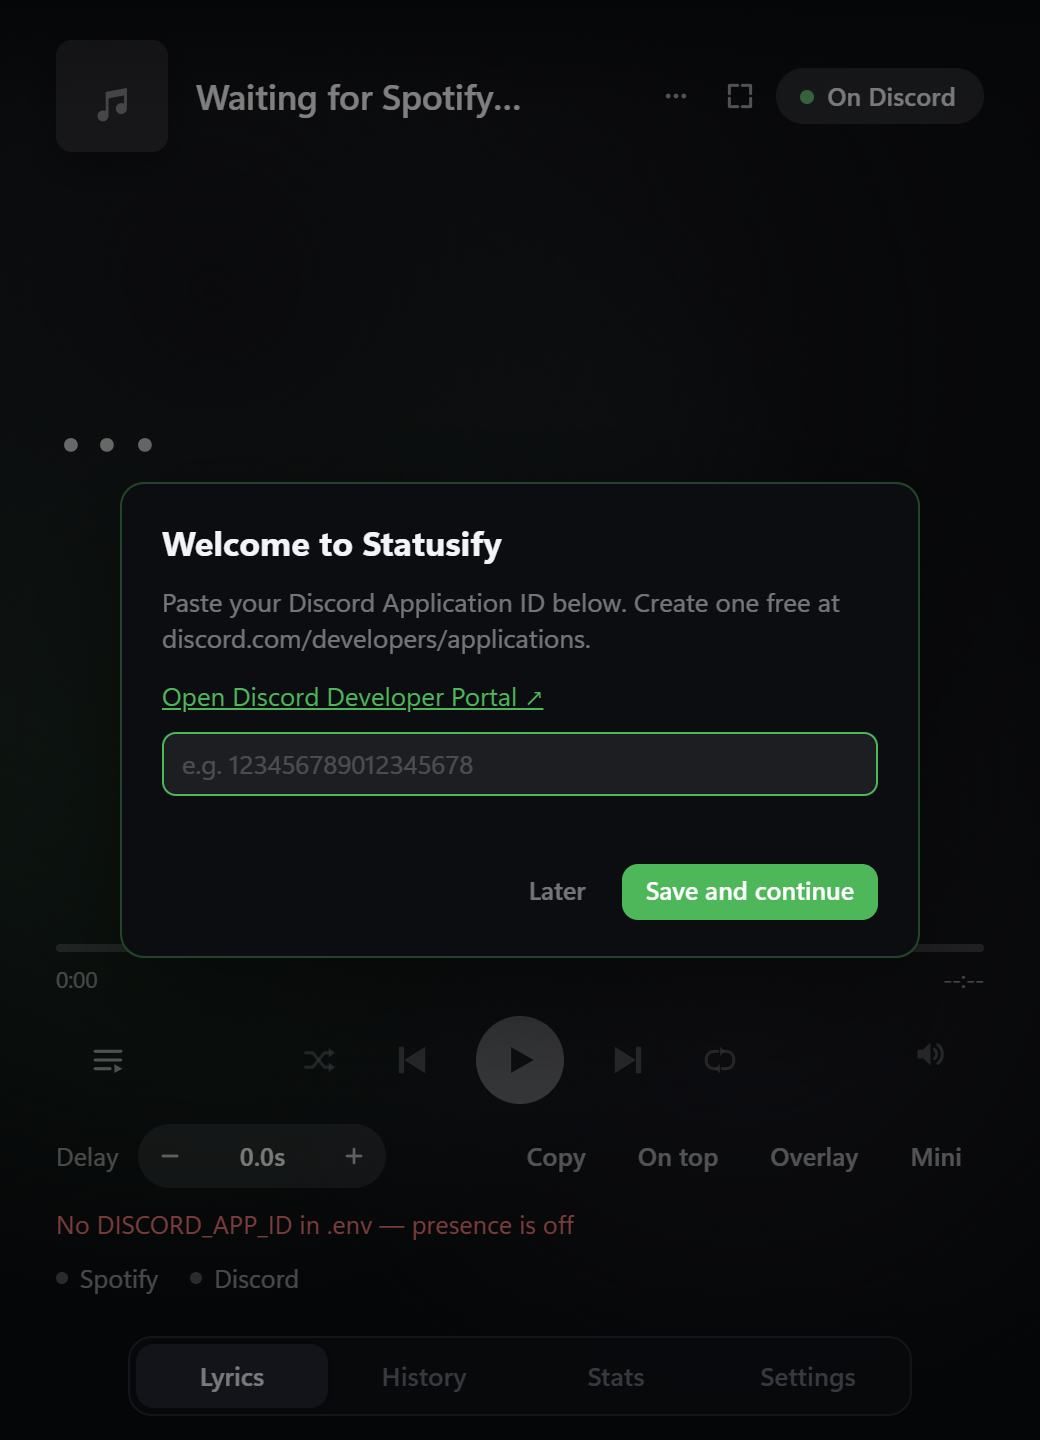
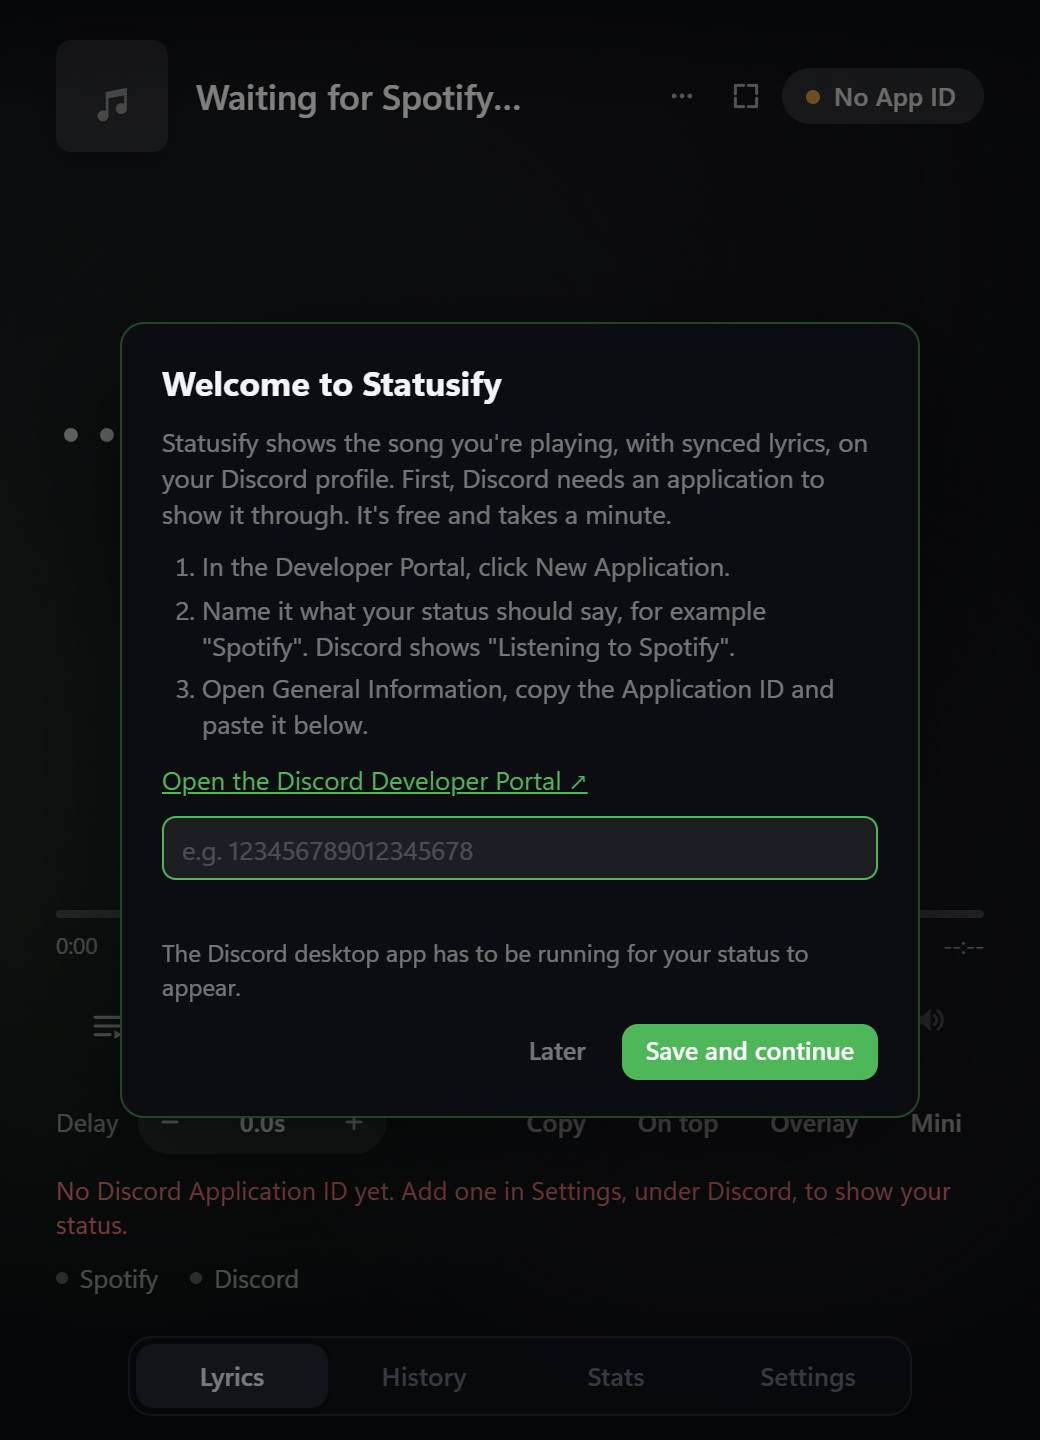
README and release notes: say only what the code and the app do
- Release body: nothing is migrated automatically (the v2 uninstaller deletes statusify.cfg and .env), so say to copy four files first; the Python app is retired, not gone, and stays on python-legacy; drop the logo paragraph (v2 never had a placeholder).

- Pause: about 1.6 s measured. Turning the status off and clearing for a blacklisted song wait for a free update as well (presence.rs Owed::Off, Owed::Blacklist): up to about 20 s.

- History day headers show the session count and the day total; the heatmap is 4 to 53 weeks wide; an update found opens its dialog once per version; the Spicetify setup appends its folder to the user PATH and downloads the latest release unpinned and unchecksummed; the updater runs /S /R /UPDATE.

- Migrating: uninstall v2 only after copying the data, and the installer's desktop-shortcut box is ticked by default and replaces an existing Statusify shortcut.

- First run: docs/first-run.png is a capture of the release build (the pill reads No App ID and sits beside the title); the text and alt texts next to it match.

- Security notes: the bridge listens on 127.0.0.1 only but accepts any local client; hardening is planned.

diff --git a/README.md b/README.md
@@ -25,22 +25,20 @@ Version 3 is a rewrite in Rust and [Tauri](https://tauri.app). It replaces the P
 
 ## 🆕 What's New in v3.0.0
 
-**Rewritten in Rust and Tauri.** The Python app is gone. The window now runs on the system's WebView2 with GPU-composited animation instead of a canvas redrawn in software, so the interface is much faster and the whole app is roughly 10-12 MB.
-
-**Your real logo everywhere.** The Statusify icon now shows on the taskbar, in the title bar and in the tray, not a placeholder.
+**Rewritten in Rust and Tauri.** The Python app is retired and stays on the [python-legacy branch](https://github.com/KurepaBoss/Statusify/tree/python-legacy). The window now runs on the system's WebView2 with GPU-composited animation instead of a canvas redrawn in software, so the interface is much faster and the whole app is roughly 10-12 MB.
 
 **A faster, steadier Spotify to Discord bridge.** The chain from Statusify hearing about a change to the update reaching Discord was timed on the development PC, with a stand-in for Spotify and one for Discord's pipe, so Discord's own delay is not in these numbers. They compare against the first build of version 3; the Python app was not measured. Median times unless noted:
 
 - **Changes in Statusify itself, nothing else needed.** The first status update after a song change arrives 0.45 s later when the lyrics were fetched ahead (it was 1.57 s) and 0.87 s later when they arrive 0.8 s after the change (it was 1.59 s). When the lyrics are not known or arrive late, the first update still takes about 1.6 s, as before. Resuming after a pause longer than 1.5 s puts the status back in 0.38 s (it was 1.57 s). Scrubbing the seek bar (10 seeks in 2.5 s) sends 2 updates instead of 5 and shows the right lyric 0.6 s after the last seek, where it took 15.7 s. After Discord's pipe closes for 0.3 s the status is back in 1.2 s (it was 6.6 s), and a program that holds a connection to Statusify's port without speaking no longer blocks Spotify's bridge.
 - **Discord's limit holds under abuse.** Discord accepts 5 updates per 20 s. Statusify now counts every one of them, clearing the status included, and keeps the count across Discord reconnects. In one-minute tests of mashing pause and resume (every 0.3 to 3 s), of a Discord that hangs up right after connecting and of a Spotify connection that drops every 0.3 to 6 s, it never sent more than 5 in any 20 s; in the pause and resume tests the status was also never blank while music played. A pause or a dropped connection shorter than 1.5 s now leaves your status alone instead of clearing it and putting it back.
-- **It costs something.** A pause now takes the status down after about 1.5 s instead of at once, because a quick pause and resume should not spend updates. On songs with a lyric line every 4 s or faster, which use up all of Discord's updates, it takes 5 to 8 s (about 15 s at worst) until a slot is free.
+- **It costs something.** A pause now takes the status down after about 1.6 s instead of at once, because a quick pause and resume should not spend updates. On songs with a lyric line every 4 s or faster, which is most songs with vocals and uses up all of Discord's updates, it takes 5 to 8 s (about 15 s at worst) until a slot is free. Turning the status off (`Ctrl+Alt+S`, or the Discord pill on the Lyrics page) and clearing it when a blacklisted song starts now wait for a free update as well. That costs nothing when a slot is free; if all five were just used, as on a fast song, the old status can stay up on Discord for up to about 20 s.
 - **These parts need the updated Spicetify bridge, `lyrics-bridge.js` 2.2.x.** Statusify offers it, and Settings, under Spotify lyrics, has Set up… to apply it; that restarts Spotify once. With it, a song change, pause or resume reaches Statusify in about 1 ms instead of about 250 ms (95 % of them within 10 ms instead of 460 ms). A song change with lyrics ready reaches Discord in 0.46 s instead of 1.85 s, counted from Spotify's own event. When Spotify's lyrics request hangs, it is given up after 5 s instead of about a minute. The old bridge keeps working but gets none of these three, and how the first two bullets behave alongside the old bridge was not measured.
 
 The measurements and how to repeat them are in `tests/bench` in the repository.
 
 **A real installer.** `Statusify-Setup.exe` installs for your user only, with no administrator prompt. Every release also lists a SHA-256 checksum for it.
 
-**Python version 2.x is kept.** It lives on the [python-legacy branch](https://github.com/KurepaBoss/Statusify/tree/python-legacy), and its releases and tags (v1.x and v2.x) stay on the [Releases page](https://github.com/KurepaBoss/Statusify/releases). Your history, settings and lyric cache carry over to version 3; see [Migrating from the Python version](https://github.com/KurepaBoss/Statusify#-migrating-from-the-python-version).
+**Python version 2.x is kept.** It lives on the [python-legacy branch](https://github.com/KurepaBoss/Statusify/tree/python-legacy), and its releases and tags (v1.x and v2.x) stay on the [Releases page](https://github.com/KurepaBoss/Statusify/releases). Your history, settings and lyric cache can come with you. Nothing is moved automatically: copy four files before you uninstall the old version (see [Migrating from the Python version](https://github.com/KurepaBoss/Statusify#-migrating-from-the-python-version)).
 
 Notes for v2.2.0 and earlier are on the [Releases page](https://github.com/KurepaBoss/Statusify/releases).
 
@@ -63,8 +61,8 @@ Notes for v2.2.0 and earlier are on the [Releases page](https://github.com/Kurep
 - 🔎 **Wrong lyrics? Search…** finds another version on LRCLIB and pins it to the song; *Use Spotify's lyrics again* undoes it.
 - 🌍 **Romanised or translated lines** under each lyric. Hangul, Cyrillic and Greek are romanised offline; other scripts and all translations use Google Translate (see [Privacy](#-privacy)).
 - 🖼 **Share a line as an image.** Save it as a PNG, or copy it to the clipboard.
-- 📂 **History.** Every play saved after 20 seconds of listening, grouped by day with each session's listening time, badges for synced and plain lyrics, and search across titles, artists and the lyrics themselves. A song's lyrics open as a sheet you can copy or export as a timestamped `.lrc` or plain `.txt`.
-- 📊 **Stats.** Songs and listening time this session, top artists over seven days and all time, a 26-week plays-per-day heatmap, top songs, recently played, and a monthly **Wrapped** card you can copy or save as an image.
+- 📂 **History.** Every play saved after 20 seconds of listening, grouped by day (each day headed by its number of listening sessions and the day's total time), badges for synced and plain lyrics, and search across titles, artists and the lyrics themselves. A song's lyrics open as a sheet you can copy or export as a timestamped `.lrc` or plain `.txt`.
+- 📊 **Stats.** Songs and listening time this session, top artists over seven days and all time, a plays-per-day heatmap (4 to 53 weeks, as many as fit the window's width), top songs, recently played, and a monthly **Wrapped** card you can copy or save as an image.
 - 💊 **Mini player.** A compact pill with cover, current lyric and controls that snaps to screen edges.
 - 🪟 **Desktop overlay.** The current lyric, and optionally the next one, floating over other windows and borderless games. Clicks pass through it while it's locked; unlock it to drag it where you want.
 - 🔔 **System tray.** Left-click opens Statusify, middle-click plays or pauses, the menu has the usual controls, and the tooltip shows the song and the current lyric.
@@ -85,7 +83,7 @@ Notes for v2.2.0 and earlier are on the [Releases page](https://github.com/Kurep
   <tr>
     <td align="center"><img src="docs/wrapped.png" alt="The activity heatmap and the monthly Wrapped card" /><br><sub>Activity and Wrapped</sub></td>
     <td align="center"><img src="docs/settings.png" alt="Settings: lyric offset, LRCLIB fallback and the desktop overlay options" /><br><sub>Settings</sub></td>
-    <td align="center"><img src="docs/first-run.png" alt="The Welcome dialog asking for a Discord Application ID" /><br><sub>First run</sub></td>
+    <td align="center"><img src="docs/first-run.png" alt="The Welcome dialog: three steps for creating a Discord application and a field for its Application ID, with the No App ID pill at the top right" /><br><sub>First run</sub></td>
   </tr>
 </table>
 <p align="center">
@@ -122,10 +120,10 @@ The installer is for you alone and asks for no administrator rights.
 **1. Create your Discord application.** Statusify shows your music through an application of your own, and there's no shared one to borrow.
 1. Go to the [Discord Developer Portal](https://discord.com/developers/applications) and click **New Application**.
 2. Give it the name you want your status to carry, for example **Spotify**.
-3. Open **General Information**, copy the **Application ID** and paste it into Statusify's *Welcome* dialog (**Save and continue**). It connects at once; no restart is needed. If you press *Later*, you can add it any time under **Settings → Discord → Application ID** (press **Add…**); while none is saved, the pill under the song title says *No App ID*.
+3. Open **General Information**, copy the **Application ID** and paste it into Statusify's *Welcome* dialog (**Save and continue**). It connects at once; no restart is needed. If you press *Later*, you can add it any time under **Settings → Discord → Application ID** (press **Add…**); while none is saved, the pill beside the song title (top right) says *No App ID*.
 
 <div align="center">
-  <img src="docs/first-run.png" alt="The Welcome to Statusify dialog: paste your Discord Application ID, with a link to the Developer Portal" width="300" />
+  <img src="docs/first-run.png" alt="The Welcome to Statusify dialog: the three Developer Portal steps, a field for the Application ID, and the Later and Save and continue buttons" width="300" />
 </div>
 
 *Why that name?* Discord labels a Rich Presence activity with the name of the application that sent it, so a *Listening* activity reads **Listening to &lt;your application's name&gt;**. With **Song in the member list** on (the default) Statusify also asks Discord to show the song under your name in the member list instead of the application's name.
@@ -150,7 +148,7 @@ spicetify backup apply
 
 ### Updating
 
-**Settings → Updates → Check now** says whether a newer version exists and shows what's new in it. Statusify also checks quietly in the background. To update, download the newer `Statusify-Setup.exe` from the [Releases page](https://github.com/KurepaBoss/Statusify/releases) and run it; a copy installed with `Statusify-Setup.exe` can also fetch the installer itself, check it against the published SHA-256 and run it. Your data lives outside the install folder, so it stays.
+**Settings → Updates → Check now** says whether a newer version exists and shows what's new in it. Statusify also checks in the background, every few hours at most; when it finds a newer version it opens the same dialog by itself, once for each version (*Later* closes it, and that version then shows only in Settings). To update, download the newer `Statusify-Setup.exe` from the [Releases page](https://github.com/KurepaBoss/Statusify/releases) and run it; a copy installed with `Statusify-Setup.exe` can also fetch the installer itself, check it against the published SHA-256 and run it. Your data lives outside the install folder, so it stays.
 
 ---
 
@@ -190,7 +188,7 @@ The Microsoft WebView2 engine keeps its own browser cache separately, under `%LO
 
 ## 🩺 Troubleshooting
 
-**Nothing shows on Discord.** The pill under the song title on the Lyrics page is green (*On Discord*) only while Statusify is connected to Discord; otherwise it says *No App ID* or *Discord not connected*, and hovering it gives the reason. Check, in order:
+**Nothing shows on Discord.** The pill beside the song title on the Lyrics page is green (*On Discord*) only while Statusify is connected to Discord; otherwise it says *No App ID* or *Discord not connected*, and hovering it gives the reason. Check, in order:
 1. The Discord *desktop* app is running. Statusify talks to it over a local pipe, which Discord in a browser doesn't have.
 2. **Settings → Discord → Connection → Test** sends a test status. If it fails, press **Reconnect**.
 3. The line under the lyrics says no Discord Application ID has been added yet: add yours (see [First run](#first-run)).
@@ -224,7 +222,7 @@ Version 3 reads the files the Python app (2.x) wrote. They are the *same files w
 **What to do**
 1. **Quit the Python Statusify** (tray icon → Quit). Both apps want port 8765 and the same Discord pipe, so don't run them together.
 2. **Copy your data first.** The Python app lives in `%LOCALAPPDATA%\Programs\Statusify` if you used its installer, or in the folder you ran it from. Copy `statusify.cfg`, `.env`, `history.db` and `translations.db` (with any `history.db-wal` and `history.db-shm` beside them) into `%APPDATA%\Statusify`. **Do this before step 3**: the old uninstaller deletes `statusify.cfg` and `.env`.
-3. **Uninstall the Python version, then install version 3.** Order matters. The old uninstaller also removes the lyrics bridge from Spicetify, and version 3's bridge has the same file name (`lyrics-bridge.js`), so uninstalling afterwards switches the new one off. If you've done it in the wrong order, run the bridge setup again, or `spicetify config extensions lyrics-bridge.js` followed by `spicetify apply`.
+3. **Uninstall the Python version, then install version 3**, and only after step 2: the old uninstaller deletes your settings. The order matters for the bridge, too. The old uninstaller also removes the lyrics bridge from Spicetify, and version 3's bridge has the same file name (`lyrics-bridge.js`), so uninstalling afterwards switches the new one off. If you've done it in the wrong order, run the bridge setup again, or `spicetify config extensions lyrics-bridge.js` followed by `spicetify apply`. On the installer's last page, *Create desktop shortcut* is ticked by default and replaces any shortcut named *Statusify* that is already on your Desktop (the old app's, if you kept it); untick it to keep that one.
 4. Start Statusify. Your history, stats, offsets, blacklist and Discord profiles are all there.
 
 **To leave the data where it is** instead of copying it, set `STATUSIFY_DATA_DIR` to the old folder (`setx STATUSIFY_DATA_DIR "C:\path\to\old\folder"`, then start Statusify again). Statusify also uses data it finds next to its own exe, so a copy of the exe placed in that folder works too. Remember that uninstalling the old version removes its settings files.
@@ -256,9 +254,12 @@ Everything Statusify records stays on your PC: your history, your lyrics cache, 
 | Spicy Lyrics API | `api.spicylyrics.org` | The song's Spotify ID and **your Spotify web-player access token**, which is how that service authenticates its requests |
 | Spotify's own lyrics | `spclient.wg.spotify.com`, through Spotify's own client | What Spotify's own lyrics view sends |
 
-**Setting up Spicetify**, only if it isn't installed yet: the setup script reads `api.github.com/repos/spicetify/cli/releases/latest` and downloads the Spicetify release it names from GitHub. The installer may fetch the Microsoft Edge WebView2 Runtime from Microsoft on a PC that lacks it.
+**Setting up Spicetify**, only if it isn't installed yet: the setup script reads `api.github.com/repos/spicetify/cli/releases/latest` and downloads the Spicetify release it names from GitHub. That is always the latest release: Statusify pins no version and checks no checksum for it (Spicetify's own installer works the same way). The script also adds Spicetify's folder, `%LOCALAPPDATA%\spicetify`, to your user `PATH`. The installer may fetch the Microsoft Edge WebView2 Runtime from Microsoft on a PC that lacks it.
 
 The WebView2 engine that draws the window is Microsoft's own component, with its own network behaviour (it keeps itself updated, for one). Statusify doesn't control that.
+
+**Security notes**
+- The bridge's WebSocket listens on `127.0.0.1:8765` only, so nothing outside your PC can reach it. It does not check who connects, though: any program on your PC (in principle, also a web page open in your browser) can connect, pose as the bridge, feed Statusify made-up songs and lyrics that then show on your Discord status, and have it download a cover image from an address of its choosing. Tightening this (an origin check, and limits on where cover art may come from) is planned for a later release.
 
 ---
 

diff --git a/docs/RELEASING.md b/docs/RELEASING.md
@@ -43,11 +43,26 @@ Attach all three to the GitHub release (tag `vX.Y.Z`, body = the README's
 Use `-TargetDir <dir>` to keep cargo's output out of `src-tauri\target` (for example
 while another copy of the app is running from there).
 
+## The Release workflow
+
+`.github/workflows/release.yml` runs when a `v*` tag is pushed. It checks the
+versions and the README notes first, then runs the same tests as the Tests
+workflow, builds the installer, and creates the GitHub release. Both workflows
+use one Rust build cache key (`shared-key`), so the release build can start from
+the cache a Tests run saved.
+
+Started by hand (Actions tab, *Release*, *Run workflow*) it does everything except
+create the release, and leaves the installer, `SHA256SUMS.txt` and the notes as the
+workflow artifact `Statusify-release`. Do that once before the first tag, and after
+changing the build, to see that it still packages. The first run has a cold cache
+and compiles everything with LTO, so allow most of the 90-minute limit.
+
 ## What the installer does
 
 - Per-user install (`installMode: currentUser`): no administrator prompt, into
-  `%LOCALAPPDATA%\Statusify`. A Start-menu shortcut, and the installer's finish
-  page offers the rest.
+  `%LOCALAPPDATA%\Statusify`. A Start-menu shortcut; the finish page offers to
+  start the app and to create a desktop shortcut (ticked by default; it replaces
+  an existing `Statusify` shortcut on the Desktop, such as the old Python app's).
 - Installs the WebView2 runtime through Microsoft's bootstrapper when it is missing.
 - English only; publisher `KurepaBoss`; the Statusify icon on the installer, the
   uninstaller and the exe.
@@ -98,6 +113,7 @@ nothing until GitHub's reset time after a rate-limit response.
 
 "Install update" works when the app was installed by the installer and the release
 carries `Statusify_<version>_x64-setup.exe` plus `SHA256SUMS.txt`: it downloads the
-installer, checks its SHA-256 against the checksum list, runs it with `/S /R`
-(silent, restart the app) and quits. In any other case (portable copy, missing
+installer, checks its SHA-256 against the checksum list, runs it with `/S /R /UPDATE`
+(silent, restart the app afterwards, and treat it as an update: shortcuts and the
+"launch when Windows starts" entry stay as they were) and quits. In any other case (portable copy, missing
 asset, failed check) it opens the release page instead.
